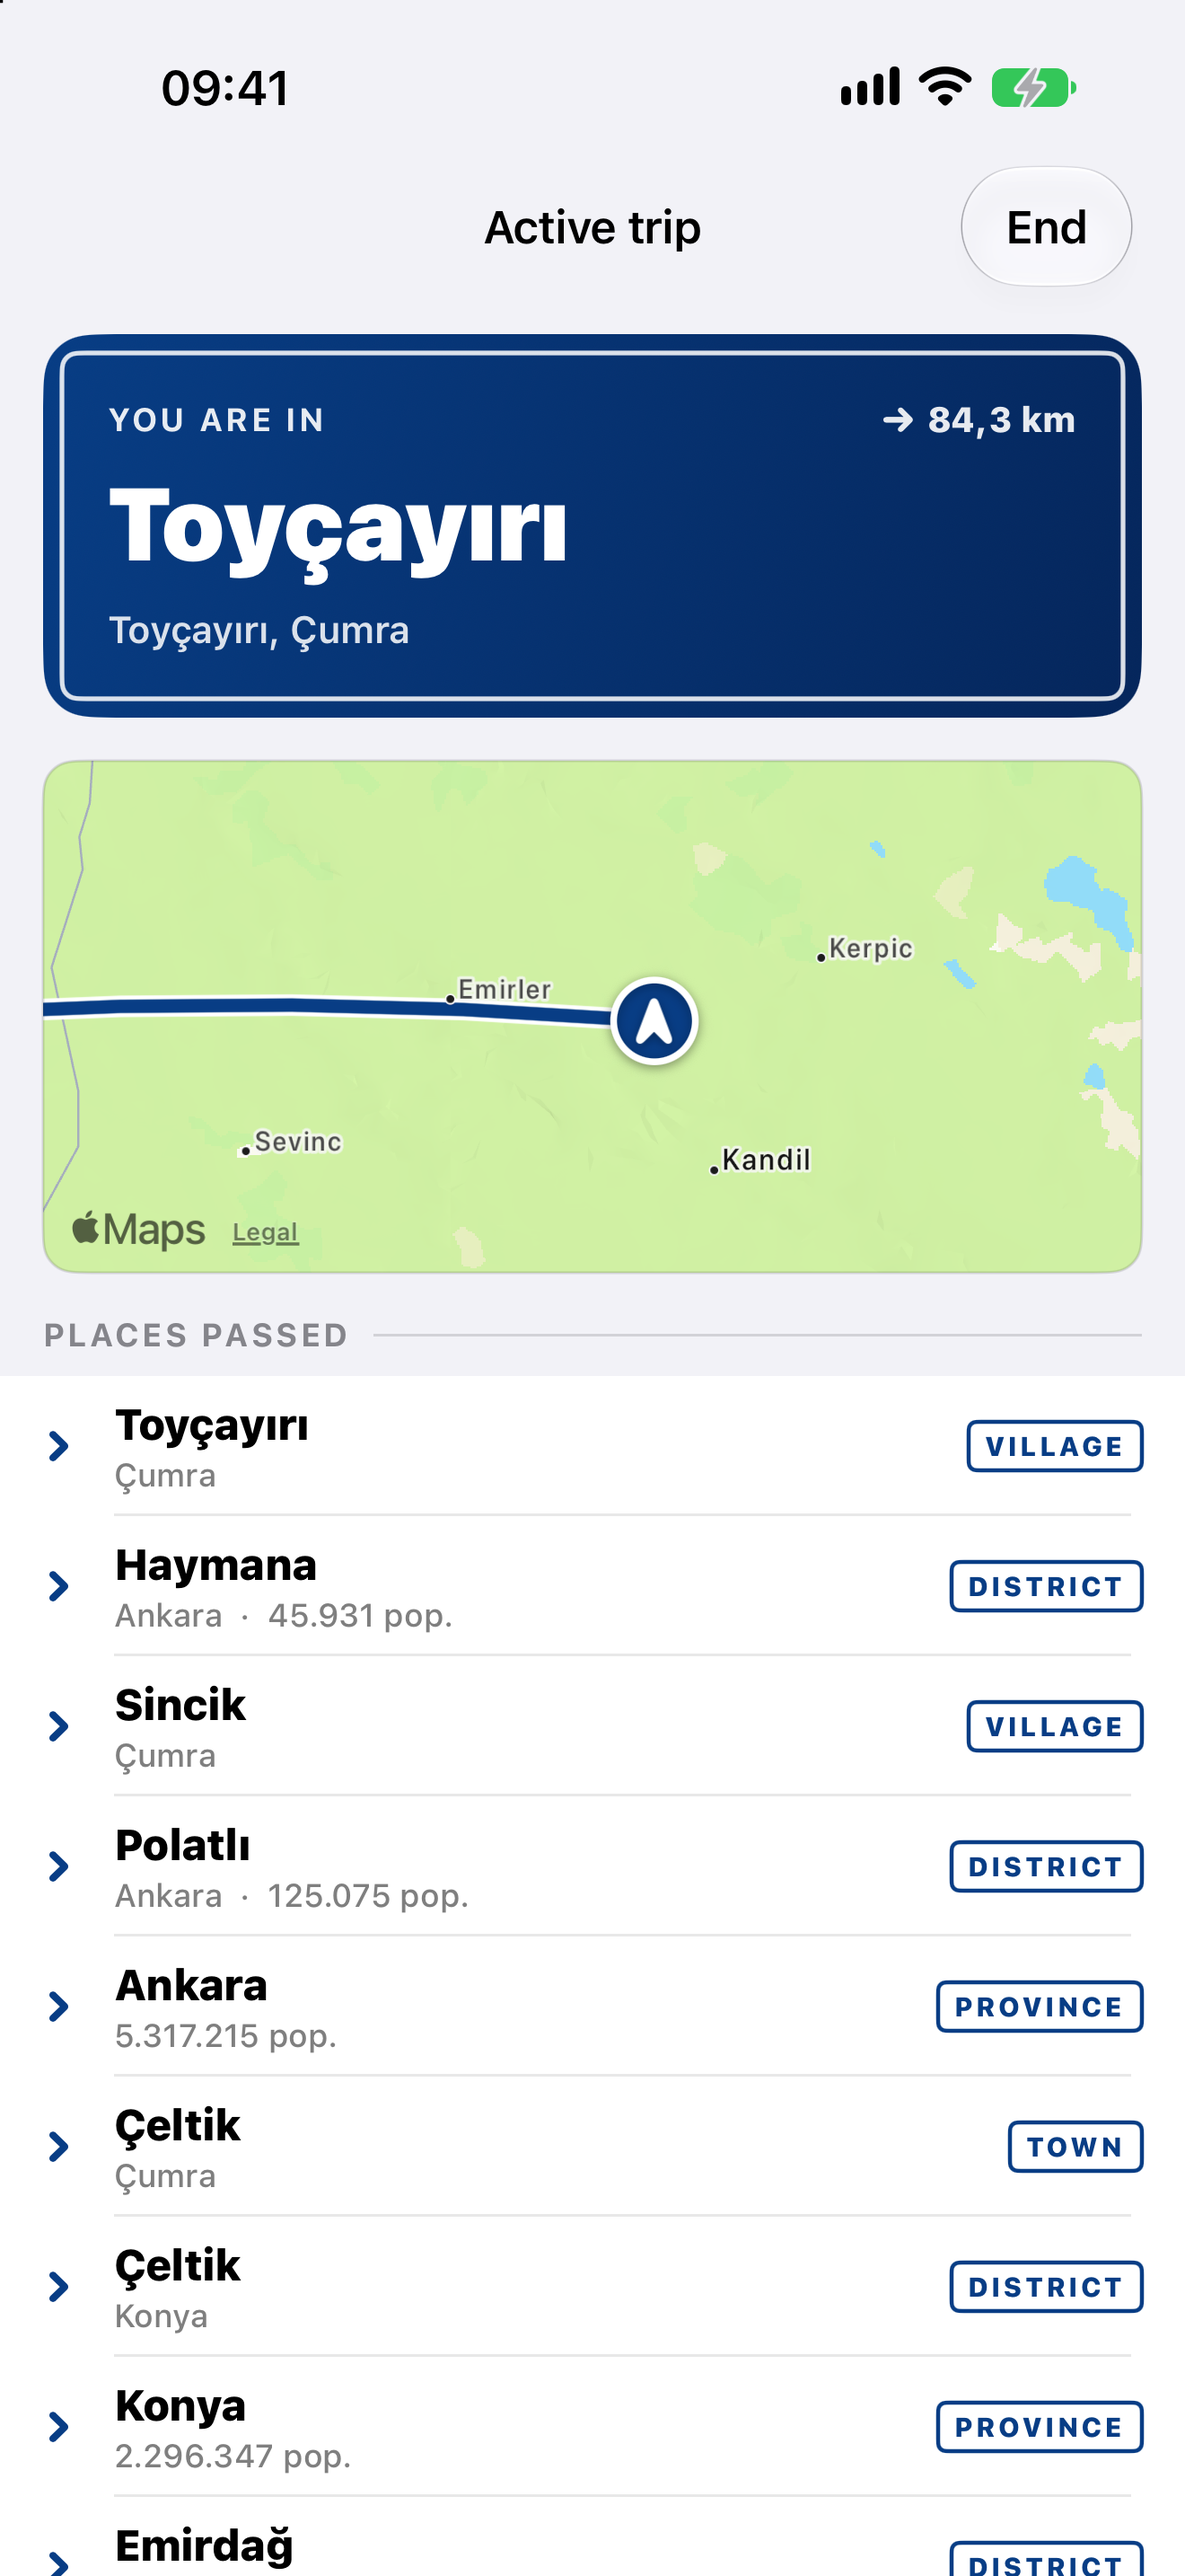
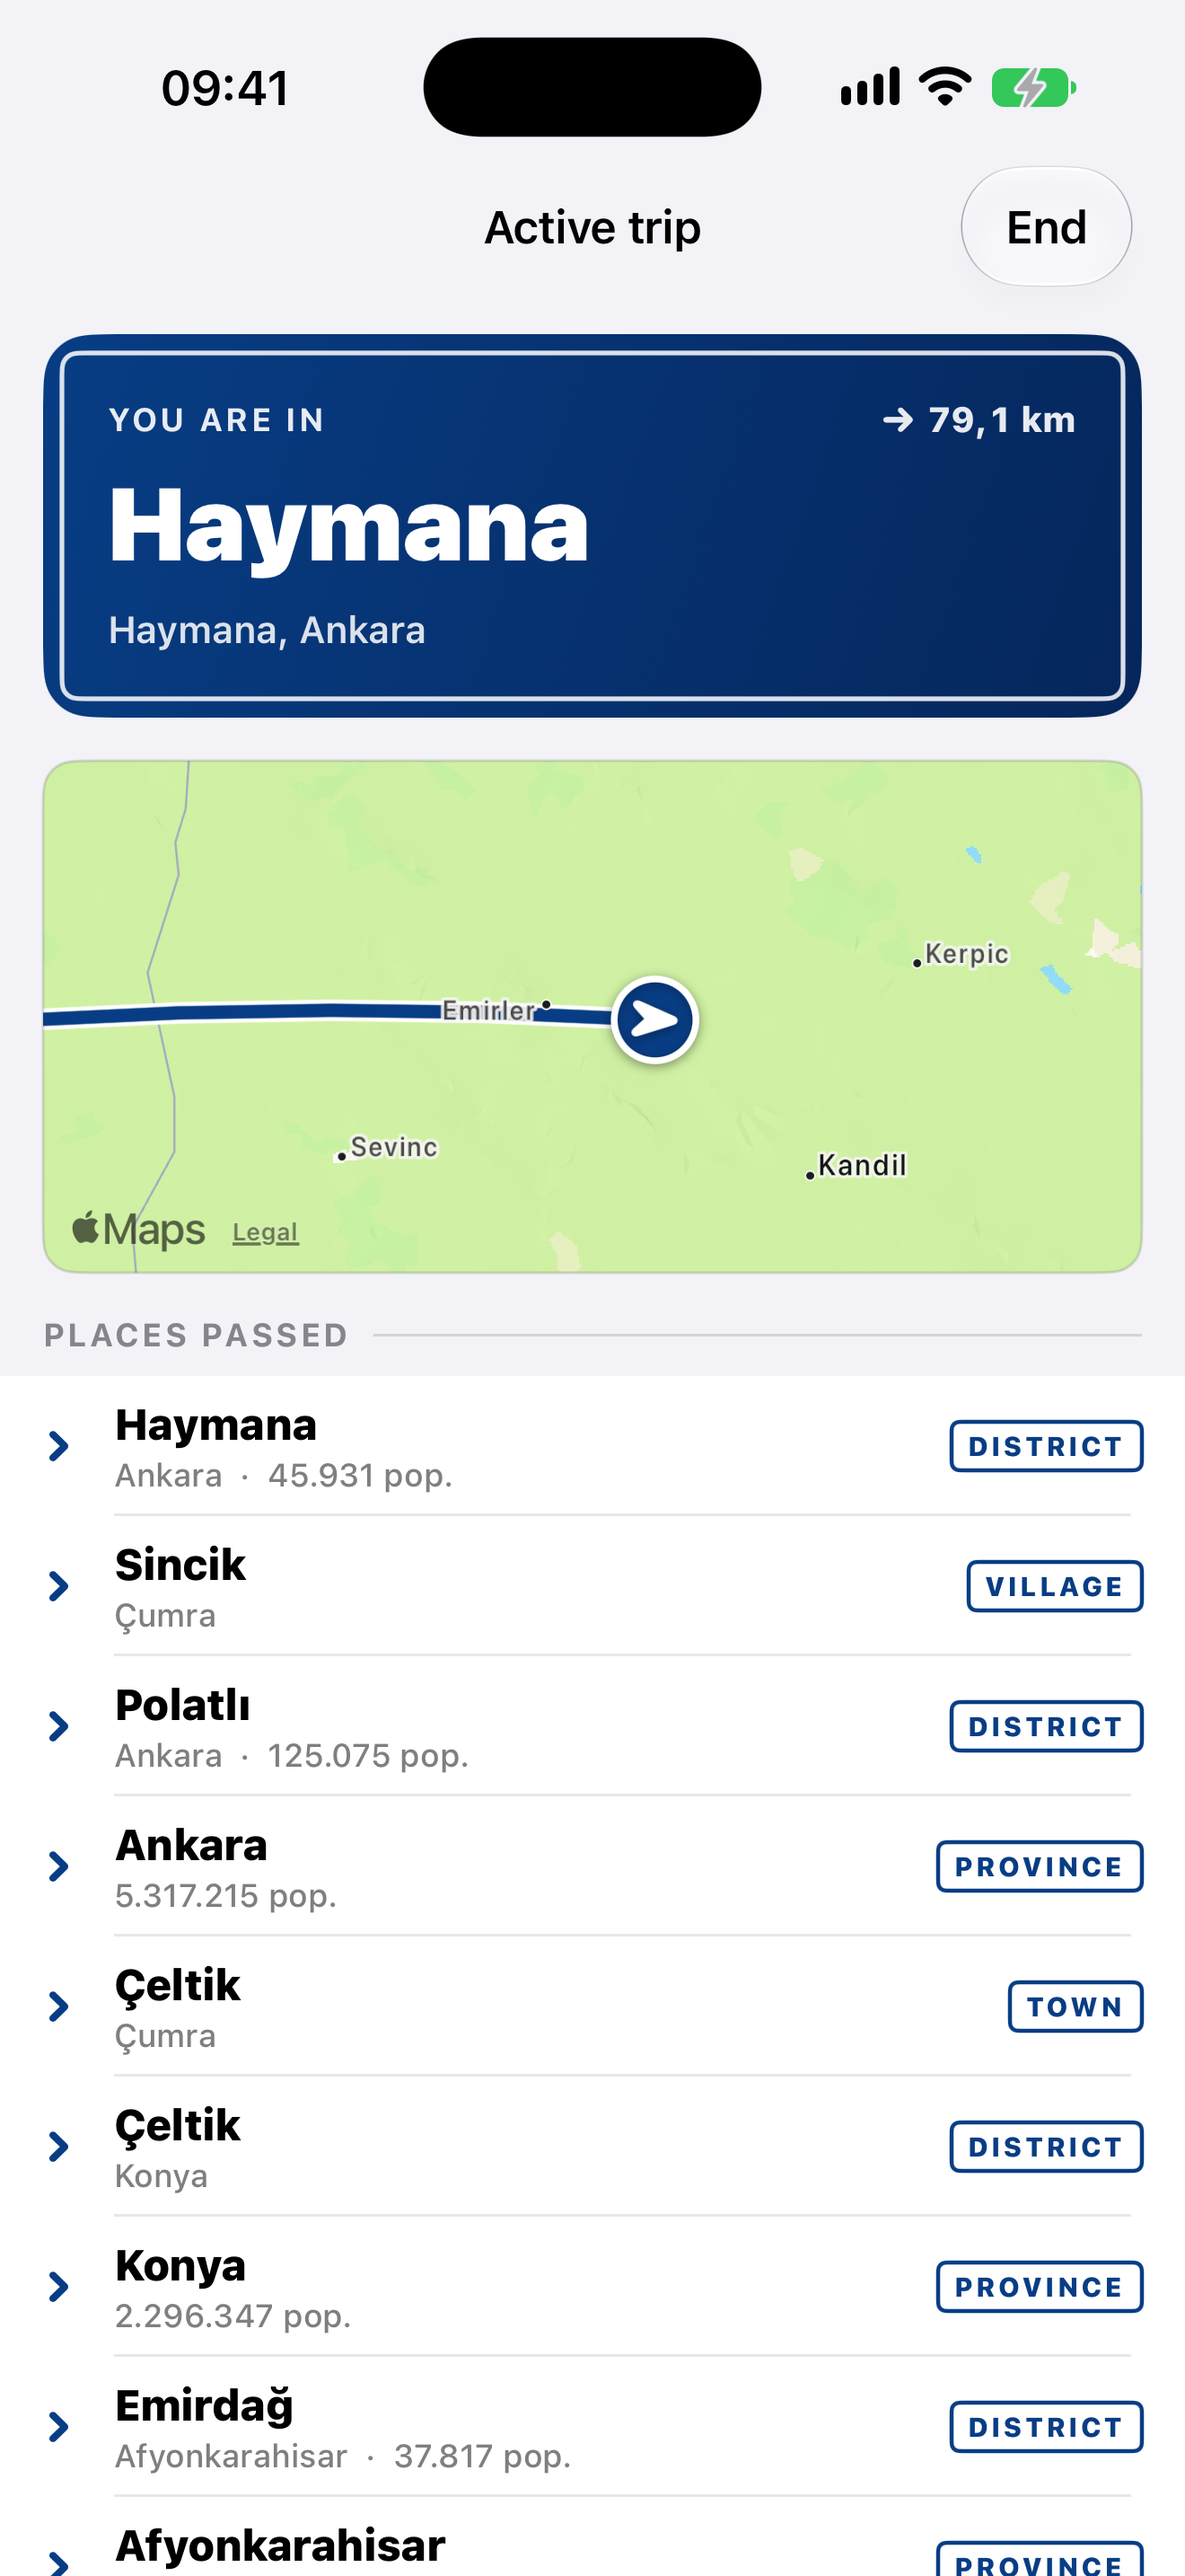
fix: heading-aware map marker, clearer history glyph, district default
- RouteMap marker now rotates to the last leg's compass bearing (was a fixed
  north-pointing arrow); falls back to a plain dot until there are two points
- history / recent-trip rows use JourneyGlyph (origin ring → run → arrival
  chevron) instead of a shrunk, illegible route trace; drop RoutePreviewCache
- default notification sensitivity is now districts (tier2), not provinces
- Settings: "Notify me about" with plainer option labels + accurate footer
  copy (dropped the stale "İstanbul–Ordu" numbers), added a section header
- new Settings strings localized (en + tr)
- -waymarkScreen settings hook

diff --git a/waymark/Screens/Shared.swift b/waymark/Screens/Shared.swift
@@ -35,13 +35,20 @@ struct RouteMap: View {
                 Annotation("", coordinate: CLLocationCoordinate2D(
                     latitude: follow.latitude, longitude: follow.longitude
                 )) {
-                    Image(systemName: "location.north.fill")
-                        .font(.system(size: 15, weight: .black))
-                        .foregroundStyle(.white)
-                        .padding(7)
-                        .background(Color.signBlue, in: Circle())
-                        .overlay(Circle().stroke(.white, lineWidth: 2.5))
-                        .shadow(radius: 2, y: 1)
+                    Group {
+                        if let course {
+                            Image(systemName: "location.north.fill")
+                                .rotationEffect(.degrees(course))
+                        } else {
+                            Circle().fill(.white).frame(width: 9, height: 9)
+                        }
+                    }
+                    .font(.system(size: 15, weight: .black))
+                    .foregroundStyle(.white)
+                    .padding(7)
+                    .background(Color.signBlue, in: Circle())
+                    .overlay(Circle().stroke(.white, lineWidth: 2.5))
+                    .shadow(radius: 2, y: 1)
                 }
             }
         }
@@ -68,6 +75,45 @@ struct RouteMap: View {
     private struct Coord: Equatable {
         let lat: Double, lon: Double
         init(_ c: Coordinate) { lat = c.latitude; lon = c.longitude }
+    }
+
+    /// Compass bearing (degrees clockwise from north) of the last leg of the route,
+    /// so the marker points the way the traveller is actually heading. `nil` until
+    /// there are two distinct points to draw a line between.
+    private var course: Double? {
+        let points = route.segments.flatMap(\.points)
+        guard let end = points.last,
+              let start = points.reversed().first(where: { Haversine.distance($0, end) > 8 })
+        else { return nil }
+        let lat1 = start.latitude * .pi / 180
+        let lat2 = end.latitude * .pi / 180
+        let dLon = (end.longitude - start.longitude) * .pi / 180
+        let y = sin(dLon) * cos(lat2)
+        let x = cos(lat1) * sin(lat2) - sin(lat1) * cos(lat2) * cos(dLon)
+        let deg = atan2(y, x) * 180 / .pi
+        return deg < 0 ? deg + 360 : deg
+    }
+}
+
+/// A compact "a journey from A to B" mark for list rows — an origin ring, a
+/// short run, and an arrival chevron. Deterministic and legible at any size,
+/// unlike a shrunk-down route trace (spec R10).
+struct JourneyGlyph: View {
+    var body: some View {
+        VStack(spacing: 3) {
+            Circle()
+                .strokeBorder(Color.signBlue, lineWidth: 2.5)
+                .frame(width: 9, height: 9)
+            Rectangle()
+                .fill(Color.signBlue)
+                .frame(width: 2.5, height: 14)
+            Image(systemName: "chevron.down")
+                .font(.system(size: 13, weight: .black))
+                .foregroundStyle(Color.signBlue)
+        }
+        .frame(width: 52, height: 52)
+        .background(Color.signBlue.opacity(0.07), in: .rect(cornerRadius: Radius.sm))
+        .overlay(RoundedRectangle(cornerRadius: Radius.sm).stroke(.quaternary, lineWidth: 1))
     }
 }
 
@@ -168,9 +214,7 @@ struct TripRowView: View {
 
     var body: some View {
         HStack(spacing: Spacing.md) {
-            if let route = item.route {
-                RoutePreviewThumbnail(tripID: item.id, route: route)
-            }
+            JourneyGlyph()
             MilestoneRow(title: item.title, subtitle: detail)
         }
     }

diff --git a/waymark/Screens/SettingsView.swift b/waymark/Screens/SettingsView.swift
@@ -21,14 +21,16 @@ struct SettingsView: View {
 
         Form {
             Section {
-                Picker("Notification level", selection: $settings.sensitivity) {
-                    Text("Provinces").tag(NotificationSensitivity.tier1)
-                    Text("Districts").tag(NotificationSensitivity.tier2)
-                    Text("Settlements").tag(NotificationSensitivity.settlement)
+                Picker("Notify me about", selection: $settings.sensitivity) {
+                    Text("Provinces only").tag(NotificationSensitivity.tier1)
+                    Text("Provinces & districts").tag(NotificationSensitivity.tier2)
+                    Text("Every place").tag(NotificationSensitivity.settlement)
                 }
                 .onChange(of: settings.sensitivity) { _, new in
                     Task { await env.presence.setSensitivity(new) }
                 }
+            } header: {
+                Text("Notifications")
             } footer: {
                 Text(sensitivityWarning(settings.sensitivity))
             }
@@ -82,9 +84,12 @@ struct SettingsView: View {
 
     private func sensitivityWarning(_ sensitivity: NotificationSensitivity) -> LocalizedStringKey {
         switch sensitivity {
-        case .tier1: "About 4–5 notifications on an İstanbul–Ordu trip."
-        case .tier2: "About 35 notifications on an İstanbul–Ordu trip."
-        case .settlement: "Every village too — expect many notifications on a long drive."
+        case .tier1:
+            "A notification only when you cross into a new province — a handful on a long drive."
+        case .tier2:
+            "A notification for each new province and district. Recommended for most trips."
+        case .settlement:
+            "Also every village and town you pass — this can be a lot on a long drive."
         }
     }
 

diff --git a/Packages/Presence/Sources/Presence/PresencePolicy.swift b/Packages/Presence/Sources/Presence/PresencePolicy.swift
@@ -9,8 +9,8 @@ import Foundation
 import GeoData
 import LocationEngine
 
-/// How much the user wants to be told (spec 8.1). Default is `.tier1` — 4-5 pushes on
-/// the first trip, not 40.
+/// How much the user wants to be told (spec 8.1). Default is `.tier2` — a notification
+/// for each new province and district, not for every village.
 public enum NotificationSensitivity: Int, Sendable, CaseIterable, Comparable, Codable {
     /// Provinces only (Turkey: il).
     case tier1 = 1
@@ -36,7 +36,7 @@ public struct SurfaceRouting: Sendable, Equatable {
 public struct PresencePolicy: Sendable {
     public var sensitivity: NotificationSensitivity
 
-    public init(sensitivity: NotificationSensitivity = .tier1) {
+    public init(sensitivity: NotificationSensitivity = .tier2) {
         self.sensitivity = sensitivity
     }
 

diff --git a/waymark/App/waymarkApp.swift b/waymark/App/waymarkApp.swift
@@ -62,6 +62,10 @@ struct AppRootView: View {
         guard let i = CommandLine.arguments.firstIndex(of: "-waymarkScreen"),
               i + 1 < CommandLine.arguments.count else { return }
         let screen = CommandLine.arguments[i + 1]
+        if screen == "settings" {
+            model.selectedTab = .settings
+            return
+        }
         model.startTrip()
         if screen == "summary" {
             DispatchQueue.main.asyncAfter(deadline: .now() + 35) { model.endTrip() }

diff --git a/waymark/Services/SettingsStore.swift b/waymark/Services/SettingsStore.swift
@@ -70,7 +70,7 @@ final class SettingsStore {
 
     private static func readSensitivity(_ defaults: UserDefaults) -> NotificationSensitivity {
         let raw = defaults.object(forKey: Keys.sensitivity) as? Int
-        return raw.flatMap(NotificationSensitivity.init(rawValue:)) ?? .tier1
+        return raw.flatMap(NotificationSensitivity.init(rawValue:)) ?? .tier2
     }
 
     private enum Keys {

diff --git a/Packages/Presence/Tests/PresenceTests/PresencePolicyTests.swift b/Packages/Presence/Tests/PresenceTests/PresencePolicyTests.swift
@@ -40,7 +40,7 @@ struct PresencePolicyTests {
         #expect(PresencePolicy(sensitivity: .settlement).routing(for: event(settlementRef(9))).sendsPush)
     }
 
-    @Test func `Default sensitivity is tier1`() {
-        #expect(PresencePolicy().sensitivity == .tier1)
+    @Test func `Default sensitivity is tier2`() {
+        #expect(PresencePolicy().sensitivity == .tier2)
     }
 }

diff --git a/waymark/Screens/HistoryView.swift b/waymark/Screens/HistoryView.swift
@@ -30,7 +30,6 @@ final class HistoryModel {
 
     func deleteAll() {
         try? env.tripStore.deleteAll()
-        RoutePreviewCache.shared.invalidateAll()
         reload()
     }
 
